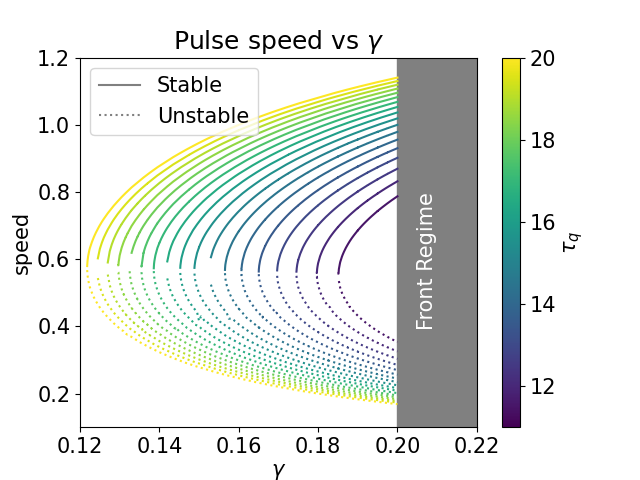
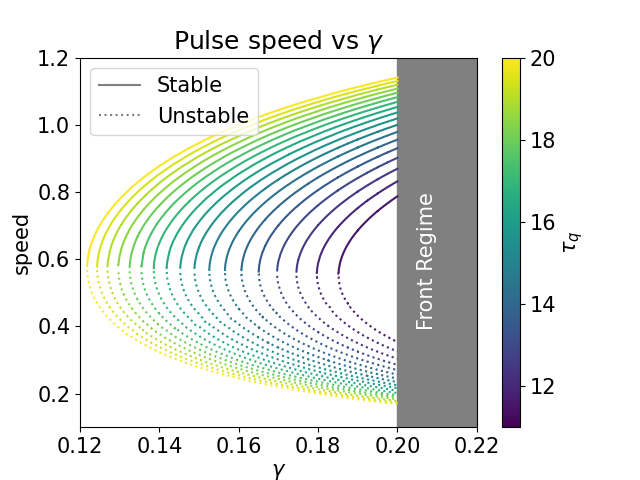
fixed error in image saving line

diff --git a/pulse_experiments/fig_speed_width_bifurcation.py b/pulse_experiments/fig_speed_width_bifurcation.py
@@ -157,7 +157,7 @@ plt.title('Pulse speed vs $\\gamma$')
 plt.legend(loc='upper left')
 plt.colorbar(matplotlib.cm.ScalarMappable(norm=alpha_color_norm, cmap=cmap),
              label='$\\tau_q$')
-fsor ext in ['png', 'eps', 'pdf']:
+for ext in ['png', 'eps', 'pdf']:
     plt.savefig(os.path.join(experiment_defaults.media_path,
                              SPEED_BY_GAMMA_FILE_NAME) + '.' + ext)
 plt.show()
